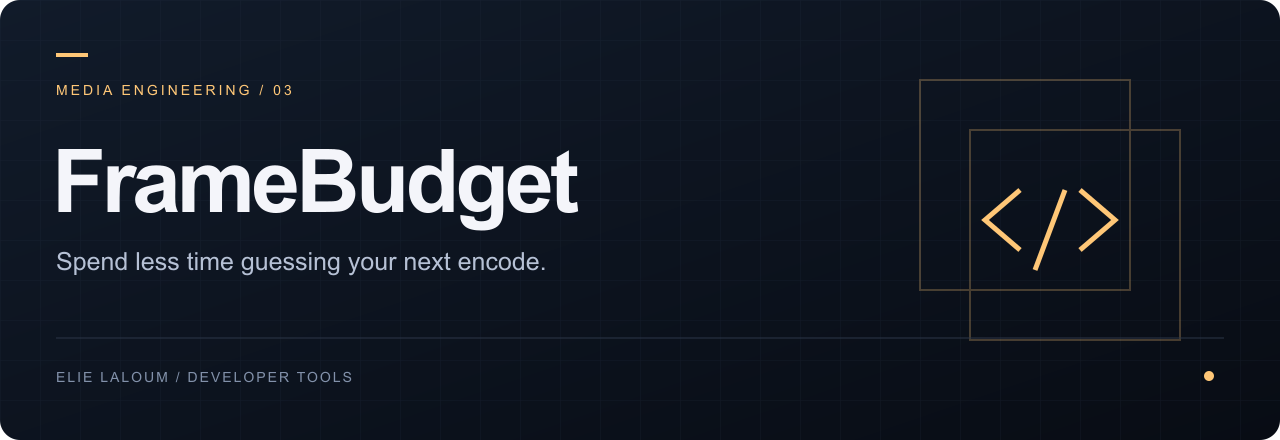
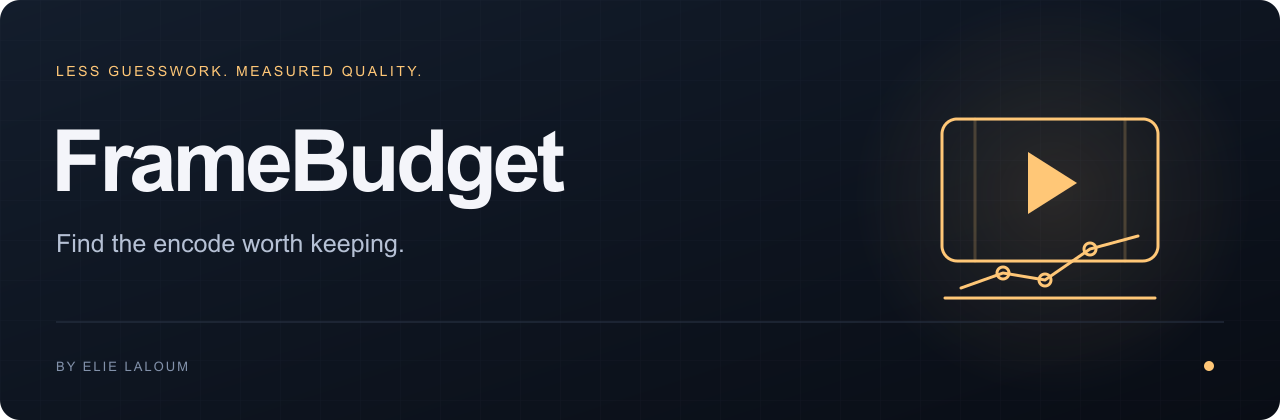
Give the project a distinct visual identity and a recorded demo

diff --git a/docs/demo.md b/docs/demo.md
@@ -1,0 +1,11 @@
+# Reproduce the demo
+
+Follow the prerequisites and installation steps in the [README](../README.md), then run:
+
+```sh
+python examples/demo.py
+```
+
+The GIF and MP4 replay output from this executable demo. Presentation timing and layout are edited for readability. The recorded observations are in [demo-evidence.json](../assets/demo-evidence.json). Temporary machine paths are omitted.
+
+The input is a generated fixture. Size, speed and quality depend on the input and FFmpeg build; the recorded scores are not a promise for your videos. VMAF requires libvmaf.

diff --git a/README.fr.md b/README.fr.md
@@ -5,6 +5,14 @@
 
 **Comparez des réglages H.264 sur plusieurs extraits, choisissez un compromis taille–qualité mesuré et vérifiez l’encodage final.**
 
+## Voir la démo
+
+<a href="assets/demo.mp4"><img src="assets/demo.gif" alt="FrameBudget — démonstration enregistrée" width="100%"></a>
+
+<sub>Démo réellement exécutée, rejouée avec des annotations et un rythme adapté à la lecture.</sub>
+
+[Vidéo MP4](assets/demo.mp4) · [Reproduire la démo](docs/demo.md)
+
 ## Essayer la version 0.1
 
 ```sh

diff --git a/README.md b/README.md
@@ -7,6 +7,14 @@
 
 Python 3.10+ · FFmpeg · VMAF · [Quick start](#quick-start) · [How it works](#how-it-works) · [Boundaries](#boundaries)
 
+## See it in action
+
+<a href="assets/demo.mp4"><img src="assets/demo.gif" alt="FrameBudget — recorded demonstration" width="100%"></a>
+
+<sub>Replay of a real demo run, with explanatory annotations and timing edited for readability.</sub>
+
+[Watch the MP4](assets/demo.mp4) · [Reproduce this demo](docs/demo.md)
+
 ## Why it exists
 
 ### Search within a budget
